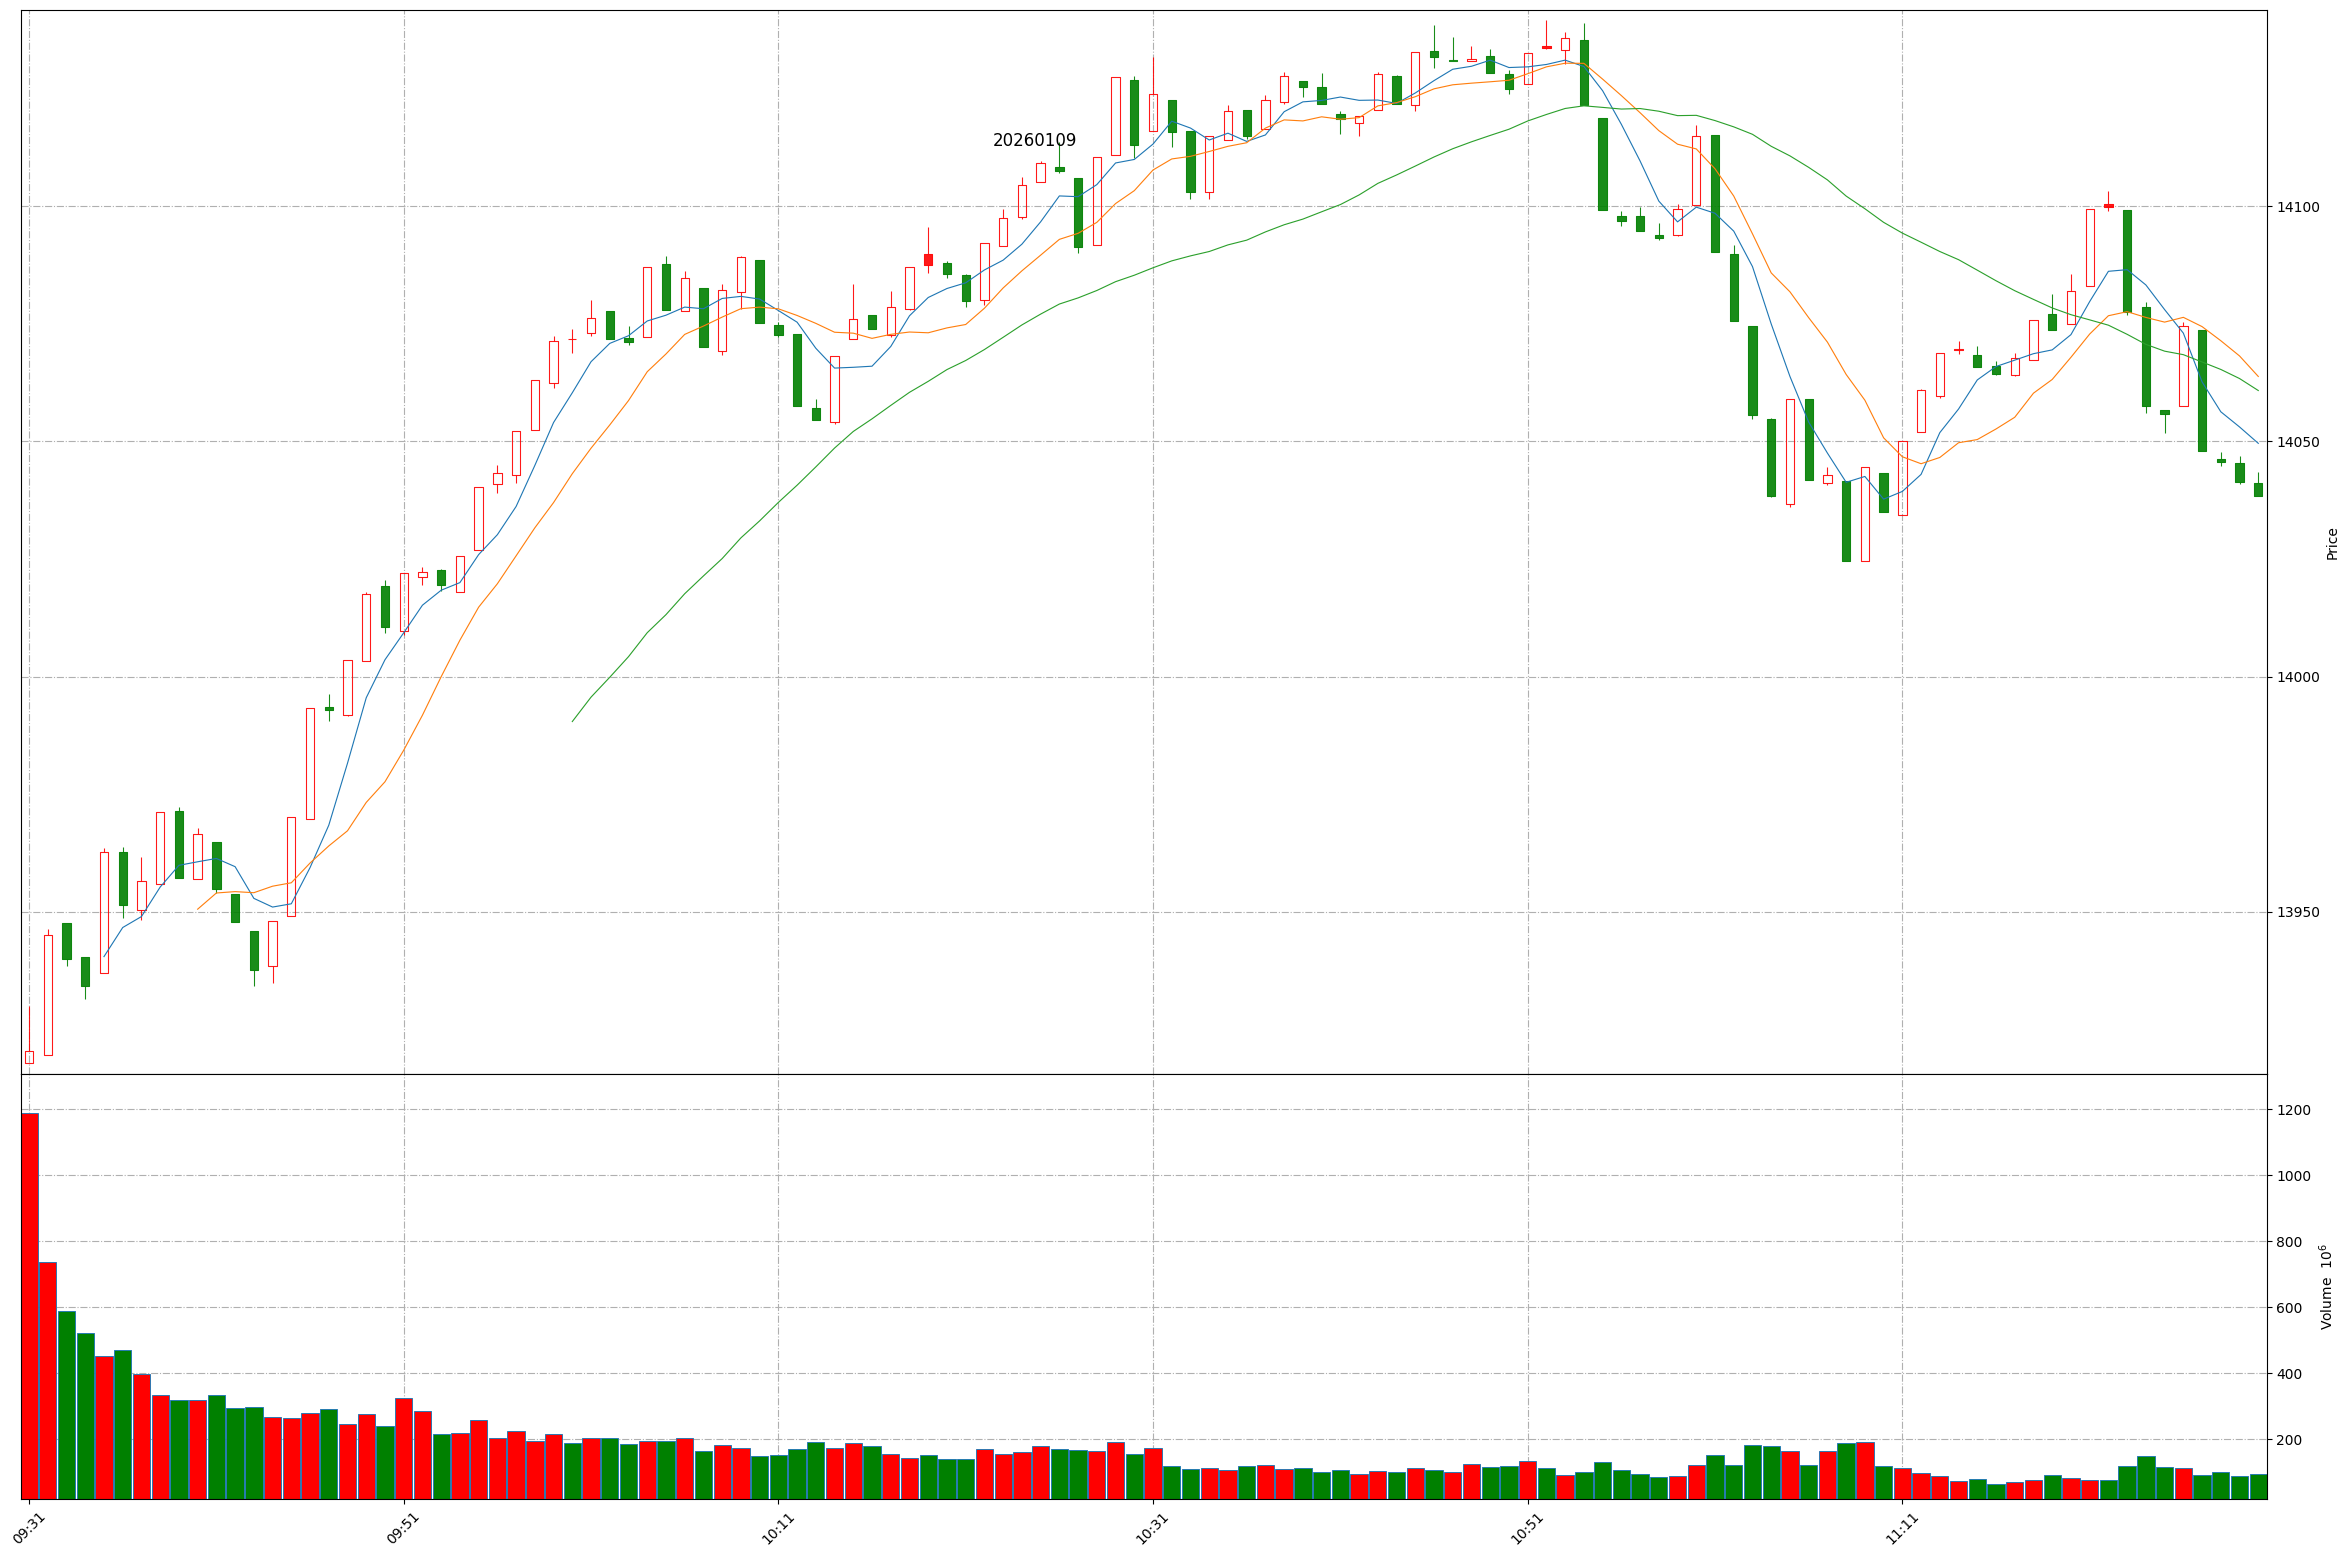
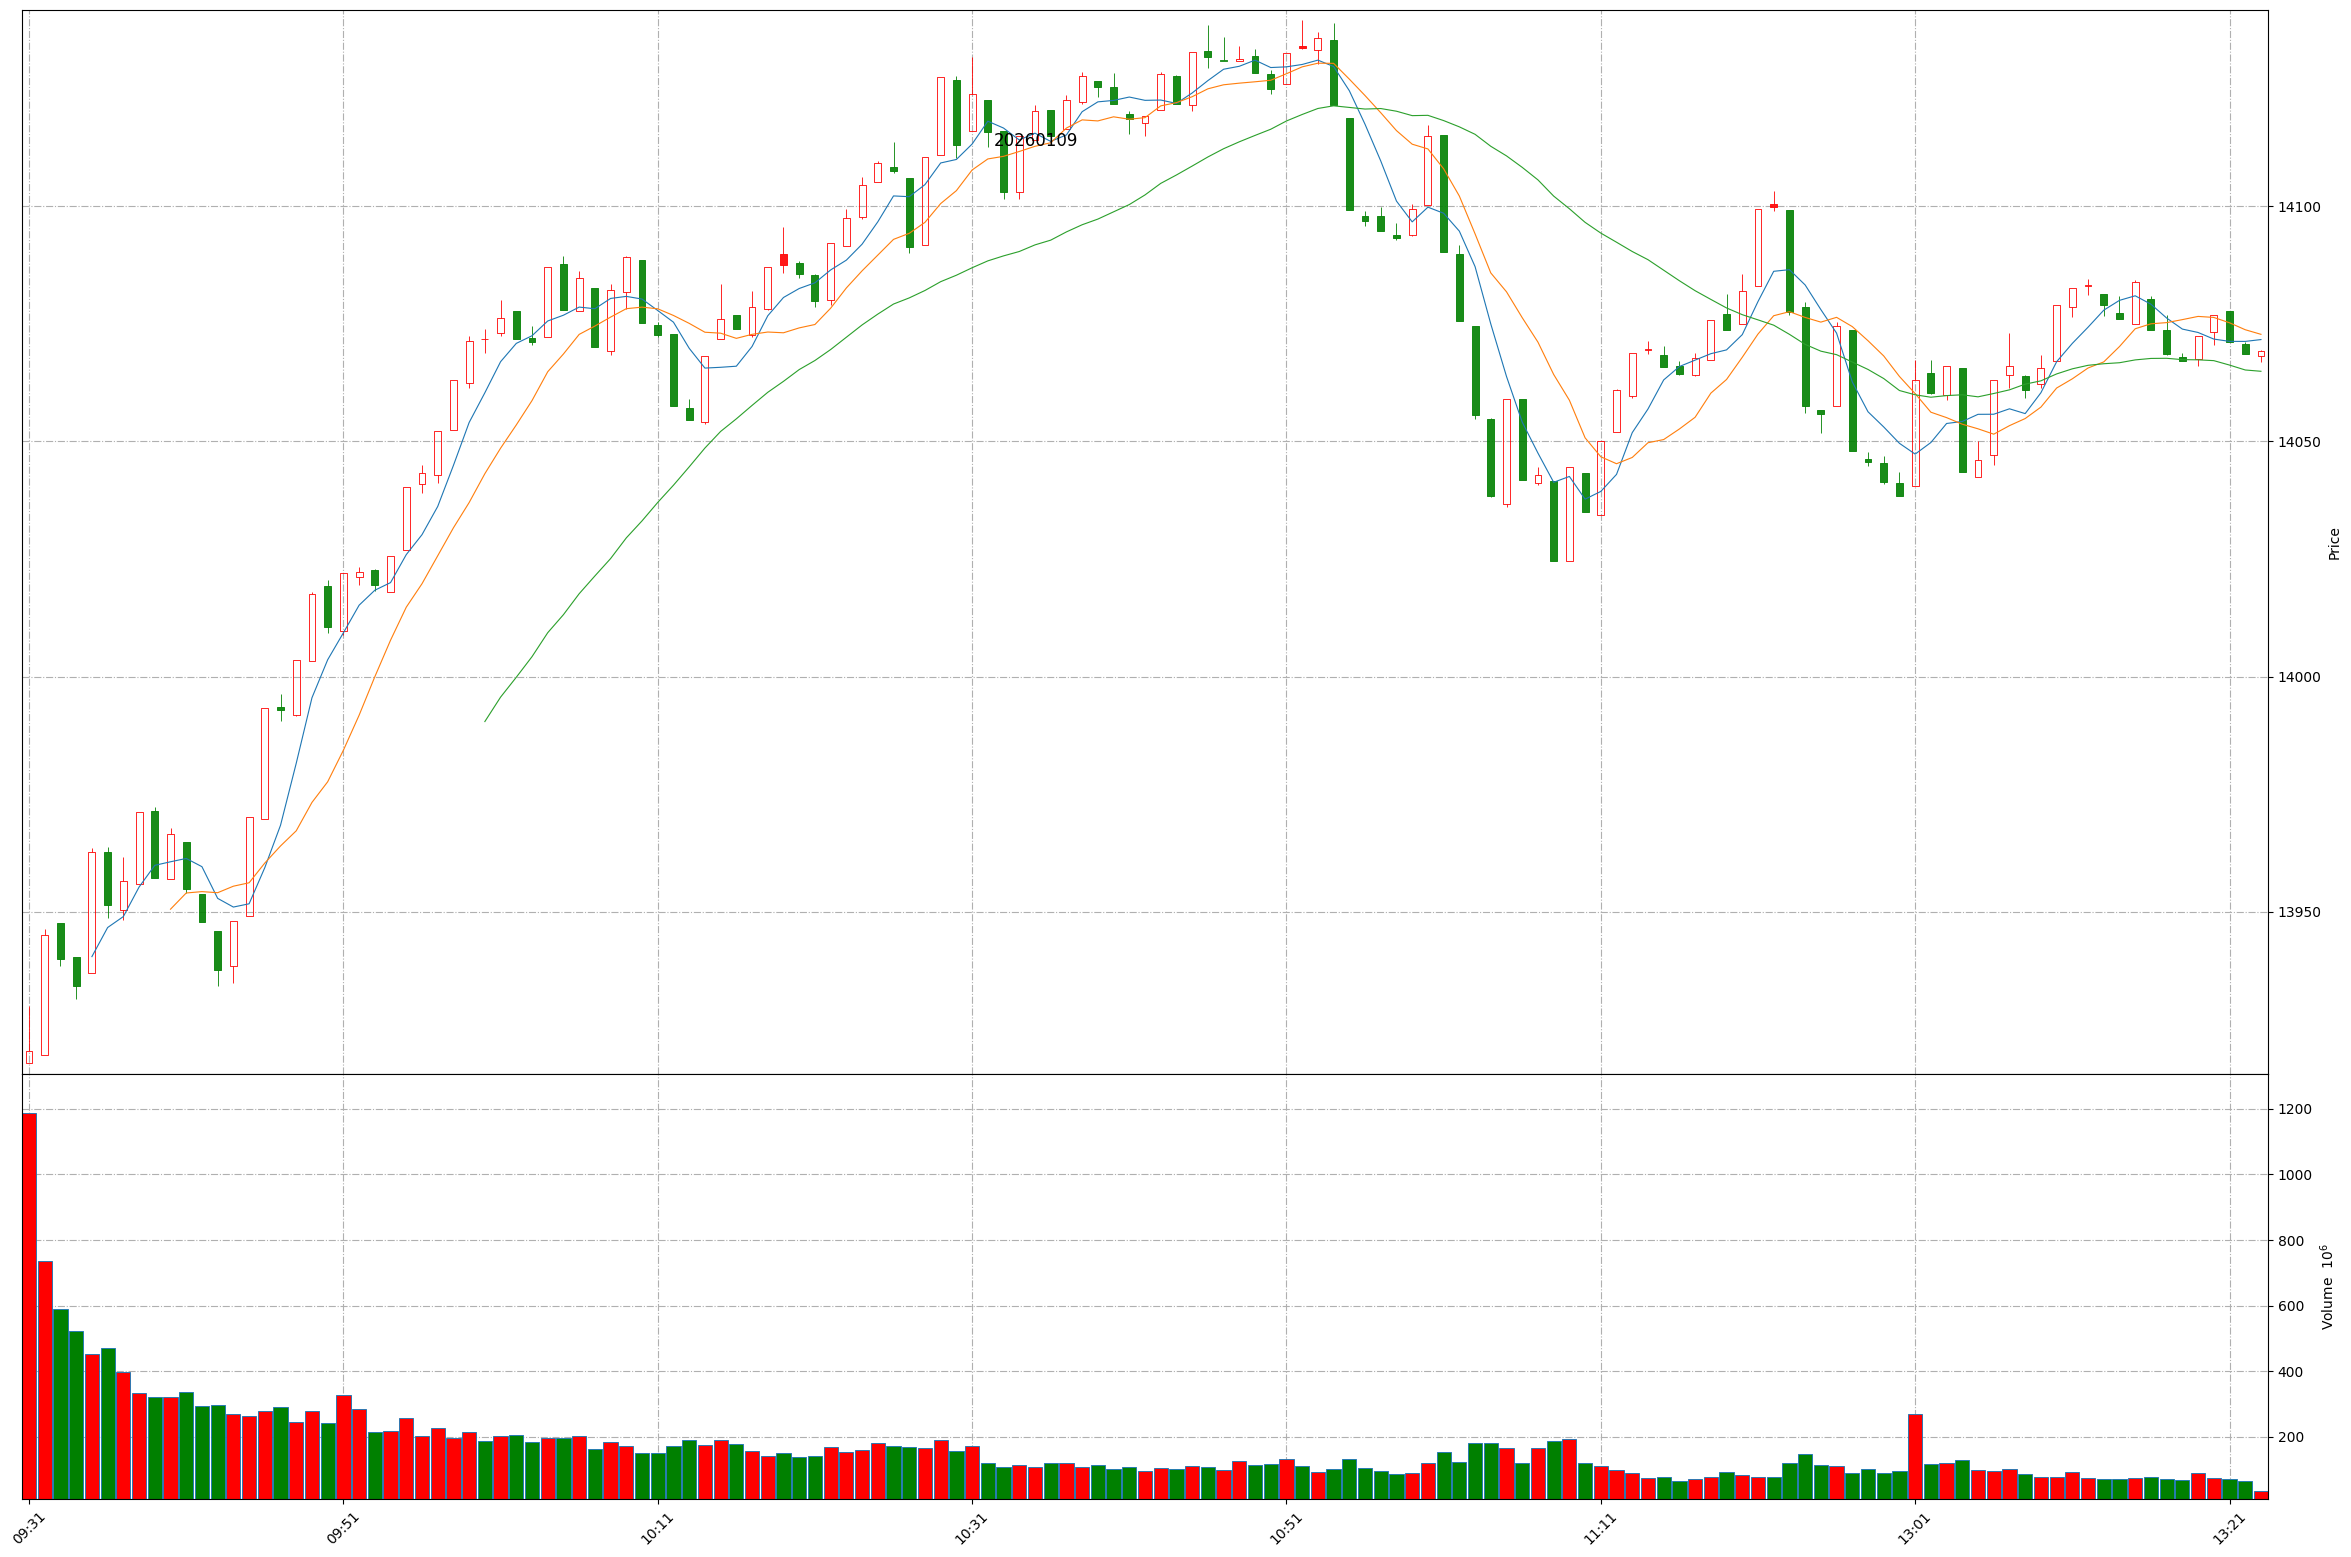
Github action update at 2026-01-09 13:22:48.

diff --git a/README.md b/README.md
@@ -1,11 +1,11 @@
 
 # Daily-A-share-market-quotes 每日 A 股指数（5min 更新）- 20260109
 
-### 上证指数 20260109 12:14
+### 上证指数 20260109 13:22
 ![](./fig/2026/1/20260109-sh000001.png)
 
-### 深证成指 20260109 12:14
+### 深证成指 20260109 13:22
 ![](./fig/2026/1/20260109-sz399001.png)
 
-### 北证50 20260109 12:14
+### 北证50 20260109 13:22
 ![](./fig/2026/1/20260109-bj899050.png)
